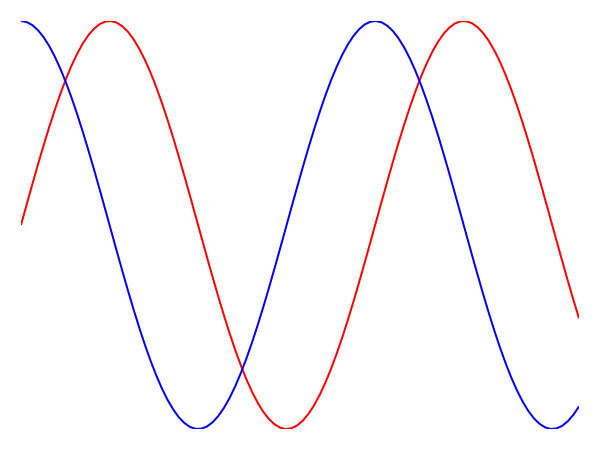
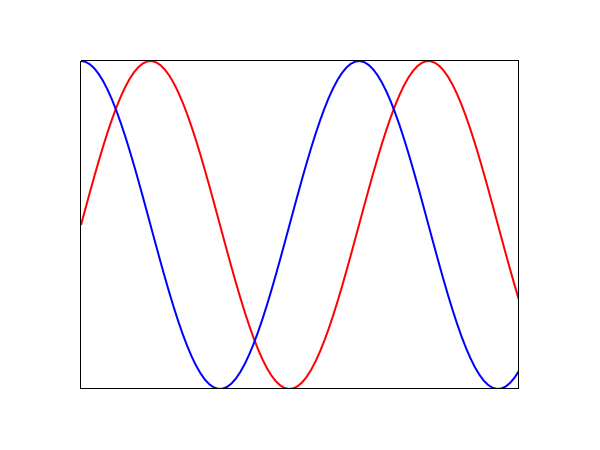
Start implementation of cartesian axis

diff --git a/slope-cartesian-axis.c b/slope-cartesian-axis.c
@@ -1,0 +1,139 @@
+/*
+ * Copyright (C) 2015  Elvis Teixeira
+ *
+ * This source code is free software: you can redistribute it
+ * and/or modify it under the terms of the GNU Lesser General
+ * Public License as published by the Free Software Foundation,
+ * either version 3 of the License, or (at your option) any
+ * later version.
+ *
+ * This source code is distributed in the hope that it will be
+ * useful, but WITHOUT ANY WARRANTY; without even the implied
+ * warranty of MERCHANTABILITY or FITNESS FOR A PARTICULAR
+ * PURPOSE.  See the GNU General Public License for more details.
+ *
+ * You should have received a copy of the GNU Lesser General
+ * Public License along with this program.
+ * If not, see <http://www.gnu.org/licenses/>.
+ */
+
+#include "slope-cartesian-axis_p.h"
+#include "slope-cartesian_p.h"
+#include <stdlib.h>
+#include <cairo.h>
+
+
+static void _slope_cartesian_axis_draw_bottom(slope_cartesian_axis_t *axis,
+                                              slope_plotable_t *cartesian,
+                                              cairo_t *cr);
+static void _slope_cartesian_axis_draw_left(slope_cartesian_axis_t *axis,
+                                            slope_plotable_t *cartesian,
+                                            cairo_t *cr);
+static void _slope_cartesian_axis_draw_top(slope_cartesian_axis_t *axis,
+                                           slope_plotable_t *cartesian,
+                                           cairo_t *cr);
+static void _slope_cartesian_axis_draw_right(slope_cartesian_axis_t *axis,
+                                             slope_plotable_t *cartesian,
+                                             cairo_t *cr);
+
+
+slope_cartesian_axis_t* slope_cartesian_axis_create (slope_cartesian_axis_type_t type)
+{
+    slope_cartesian_axis_t *axis = malloc(sizeof(slope_cartesian_axis_t));
+    axis->type = type;
+    axis->visib = 1;
+    return axis;
+}
+
+
+void slope_cartesian_axis_destroy (slope_cartesian_axis_t *axis)
+{
+    if (axis == NULL) {
+        return;
+    }
+    free(axis);
+    axis = NULL;
+}
+
+
+void _slope_cartesian_axis_draw (slope_cartesian_axis_t *axis,
+                                slope_plotable_t *cartesian,
+                                cairo_t *cr)
+{
+    cairo_set_line_width(cr, 1.0);
+    cairo_set_antialias(cr, CAIRO_ANTIALIAS_NONE);
+    cairo_set_source_rgb(cr, 0.0, 0.0, 0.0);
+    
+    switch (axis->type) {
+        case SLOPE_AXIS_TOP:
+            _slope_cartesian_axis_draw_top(axis,cartesian,cr);
+            break;
+        case SLOPE_AXIS_LEFT:
+            _slope_cartesian_axis_draw_left(axis,cartesian,cr);
+            break;
+        case SLOPE_AXIS_BOTTOM:
+            _slope_cartesian_axis_draw_bottom(axis,cartesian,cr);
+            break;
+        case SLOPE_AXIS_RIGHT:
+            _slope_cartesian_axis_draw_right(axis,cartesian,cr);
+            break;
+    }
+}
+
+
+static void _slope_cartesian_axis_draw_bottom(slope_cartesian_axis_t *axis,
+                                              slope_plotable_t *cartesian_base,
+                                              cairo_t *cr)
+{
+    slope_cartesian_t *cartesian = (slope_cartesian_t*) cartesian_base;
+    double x = cartesian->x_min_scene;
+    double y = cartesian->y_max_scene;
+    cairo_move_to(cr, x, y);
+    cairo_line_to(cr, x+cartesian->width_scene, y);
+    cairo_stroke(cr);
+}
+
+
+static void _slope_cartesian_axis_draw_left(slope_cartesian_axis_t *axis,
+                                            slope_plotable_t *cartesian_base,
+                                            cairo_t *cr)
+{
+    slope_cartesian_t *cartesian = (slope_cartesian_t*) cartesian_base;
+    double x = cartesian->x_min_scene;
+    double y = cartesian->y_max_scene;
+    cairo_move_to(cr, x, y);
+    cairo_line_to(cr, x, y-cartesian->height_scene);
+    cairo_stroke(cr);
+}
+
+
+static void _slope_cartesian_axis_draw_top(slope_cartesian_axis_t *axis,
+                                           slope_plotable_t *cartesian_base,
+                                           cairo_t *cr)
+{
+    slope_cartesian_t *cartesian = (slope_cartesian_t*) cartesian_base;
+    double x = cartesian->x_min_scene;
+    double y = cartesian->y_min_scene;
+    cairo_move_to(cr, x, y);
+    cairo_line_to(cr, x+cartesian->width_scene, y);
+    cairo_stroke(cr);
+}
+
+
+static void _slope_cartesian_axis_draw_right(slope_cartesian_axis_t *axis,
+                                             slope_plotable_t *cartesian_base,
+                                             cairo_t *cr)
+{
+    slope_cartesian_t *cartesian = (slope_cartesian_t*) cartesian_base;
+    double x = cartesian->x_max_scene;
+    double y = cartesian->y_max_scene;
+    cairo_move_to(cr, x, y);
+    cairo_line_to(cr, x, y-cartesian->height_scene);
+    cairo_stroke(cr);
+}
+
+
+int slope_cartesian_axis_visible (slope_cartesian_axis_t *axis)
+{
+    return axis->visib;
+}

diff --git a/slope-cartesian.c b/slope-cartesian.c
@@ -26,12 +26,19 @@ slope_plotable_t* slope_cartesian_create ()
     slope_cartesian_t *cart = malloc(sizeof(slope_cartesian_t));
     slope_plotable_t *base = (slope_plotable_t*) cart;
     base->visib = 1;
-    cart->x_low_b = cart->x_up_b = 20.0;
-    cart->y_low_b = cart->y_up_b = 20.0;
+    cart->x_low_b = cart->x_up_b = 80.0;
+    cart->y_low_b = cart->y_up_b = 60.0;
     base->_cleanup_fn = _slope_cartesian_cleanup;
     base->_draw_fn = _slope_cartesian_draw;
     cart->scatters = NULL;
     slope_cartesian_rescale(base);
+    
+    /* create axis */
+    cart->axis = slope_list_append(cart->axis, slope_cartesian_axis_create(SLOPE_AXIS_TOP));
+    cart->axis = slope_list_append(cart->axis, slope_cartesian_axis_create(SLOPE_AXIS_BOTTOM));
+    cart->axis = slope_list_append(cart->axis, slope_cartesian_axis_create(SLOPE_AXIS_LEFT));
+    cart->axis = slope_list_append(cart->axis, slope_cartesian_axis_create(SLOPE_AXIS_RIGHT));
+    
     return base;
 }
 
@@ -39,6 +46,15 @@ void _slope_cartesian_cleanup (slope_plotable_t *base)
 {
     slope_cartesian_t *cartesian = (slope_cartesian_t*) base;
     slope_list_destroy(cartesian->scatters);
+    
+    slope_iterator_t *ax_iter = slope_list_first(cartesian->axis);
+    while (ax_iter) {
+        slope_cartesian_axis_t *axis =
+            (slope_cartesian_axis_t*) slope_iterator_data(ax_iter);
+        slope_cartesian_axis_destroy(axis);
+        slope_iterator_next(&ax_iter);
+    }
+    slope_list_destroy(cartesian->axis);
 }
 
 void _slope_cartesian_draw (slope_plotable_t *base,
@@ -51,16 +67,26 @@ void _slope_cartesian_draw (slope_plotable_t *base,
     cairo_rectangle(cr, cart->x_low_b+1.0, cart->y_low_b+1.0,
                     cart->width_scene, cart->height_scene);
     cairo_clip(cr);
-    slope_iterator_t *iter = slope_list_first(cart->scatters);
-    while (iter) {
+    slope_iterator_t *scat_iter = slope_list_first(cart->scatters);
+    while (scat_iter) {
         slope_scatter_t *scat =
-            (slope_scatter_t*) slope_iterator_data(iter);
+            (slope_scatter_t*) slope_iterator_data(scat_iter);
         if (slope_scatter_visible(scat)) {
             _slope_scatter_draw(scat, base, cr);
         }
-        slope_iterator_next(&iter);
+        slope_iterator_next(&scat_iter);
     }
     cairo_restore(cr);
+    
+    slope_iterator_t *ax_iter = slope_list_first(cart->axis);
+    while (ax_iter) {
+        slope_cartesian_axis_t *axis =
+            (slope_cartesian_axis_t*) slope_iterator_data(ax_iter);
+        if (slope_cartesian_axis_visible(axis)) {
+            _slope_cartesian_axis_draw(axis, base, cr);
+        }
+        slope_iterator_next(&ax_iter);
+    }
 }
 
 double slope_cartesian_map_x (slope_plotable_t *base, double x)

diff --git a/slope-cartesian-axis.h b/slope-cartesian-axis.h
@@ -17,28 +17,32 @@
  * If not, see <http://www.gnu.org/licenses/>.
  */
 
-#ifndef _SLOPE_CARTESIAN_H_
-#define _SLOPE_CARTESIAN_H_
+#ifndef _SLOPE_CARTESIAN_AXIS_H_
+#define _SLOPE_CARTESIAN_AXIS_H_
 
-#include "slope-plotable.h"
-#include "slope-scatter.h"
-#include "slope-cartesian-axis.h"
+#include "slope-cartesian.h"
 
 #ifdef __cplusplus
 extern "C" {
 #endif
+    
+typedef struct _slope_cartesian_axis slope_cartesian_axis_t;
 
-typedef struct _slope_scatter slope_scatter_t;
 
-slope_plotable_t* slope_cartesian_create ();
+typedef enum
+{
+    SLOPE_AXIS_BOTTOM,
+    SLOPE_AXIS_LEFT,
+    SLOPE_AXIS_TOP,
+    SLOPE_AXIS_RIGHT
+}
+slope_cartesian_axis_type_t;
 
-double slope_cartesian_map_x (slope_plotable_t *cart, double x);
+slope_cartesian_axis_t* slope_cartesian_axis_create (slope_cartesian_axis_type_t type);
 
-double slope_cartesian_map_y (slope_plotable_t *cart, double y);
+void slope_cartesian_axis_destroy (slope_cartesian_axis_t *axis);
 
-void slope_cartesian_add_scatter (slope_plotable_t *cart, slope_scatter_t *scatter);
-
-void slope_cartesian_rescale (slope_plotable_t *cart);
+int slope_cartesian_axis_visible (slope_cartesian_axis_t *axis);
 
 
 #ifdef __cplusplus

diff --git a/slope-cartesian-axis_p.h b/slope-cartesian-axis_p.h
@@ -17,32 +17,29 @@
  * If not, see <http://www.gnu.org/licenses/>.
  */
 
-#ifndef _SLOPE_CARTESIAN_H_
-#define _SLOPE_CARTESIAN_H_
+#ifndef _SLOPE_CARTESIAN_AXIS_P_H_
+#define _SLOPE_CARTESIAN_AXIS_P_H_
 
-#include "slope-plotable.h"
-#include "slope-scatter.h"
 #include "slope-cartesian-axis.h"
 
 #ifdef __cplusplus
 extern "C" {
 #endif
 
-typedef struct _slope_scatter slope_scatter_t;
+struct _slope_cartesian_axis
+{
+    slope_cartesian_axis_type_t type;
+    int visib;
+    double length;
+};
 
-slope_plotable_t* slope_cartesian_create ();
-
-double slope_cartesian_map_x (slope_plotable_t *cart, double x);
-
-double slope_cartesian_map_y (slope_plotable_t *cart, double y);
-
-void slope_cartesian_add_scatter (slope_plotable_t *cart, slope_scatter_t *scatter);
-
-void slope_cartesian_rescale (slope_plotable_t *cart);
+void _slope_cartesian_axis_draw (slope_cartesian_axis_t *axis,
+                                 slope_plotable_t *cartesian,
+                                 cairo_t *cr);
 
 
 #ifdef __cplusplus
 }
 #endif
 
-#endif /*_SLOPE_CARTESIAN_H_*/
+#endif /*_SLOPE_CARTESIAN_AXIS_P_H_*/

diff --git a/slope-scene.c b/slope-scene.c
@@ -60,8 +60,8 @@ void slope_scene_draw (slope_scene_t *scene, cairo_t *cr, slope_rect_t *area)
                    area->height - scene->y_low_b - scene->y_up_b);
 
     /* paint the background if required */
-    cairo_save(cr);
     cairo_stroke(cr);
+    cairo_save(cr);
     if (scene->fill_back) {
         cairo_set_source_rgba(cr,
                               scene->back_color.red,

diff --git a/slope-cartesian_p.h b/slope-cartesian_p.h
@@ -21,6 +21,7 @@
 #define _SLOPE_CARTESIAN_P_H_
 
 #include "slope-cartesian.h"
+#include "slope-cartesian-axis_p.h"
 #include "slope-plotable_p.h"
 #include "slope-list.h"
 
@@ -34,6 +35,7 @@ struct _slope_cartesian
 {
     struct _slope_plotable base;
     slope_list_t *scatters;
+    slope_list_t *axis;
     double x_min, x_max;
     double y_min, y_max;
     double width, height;
